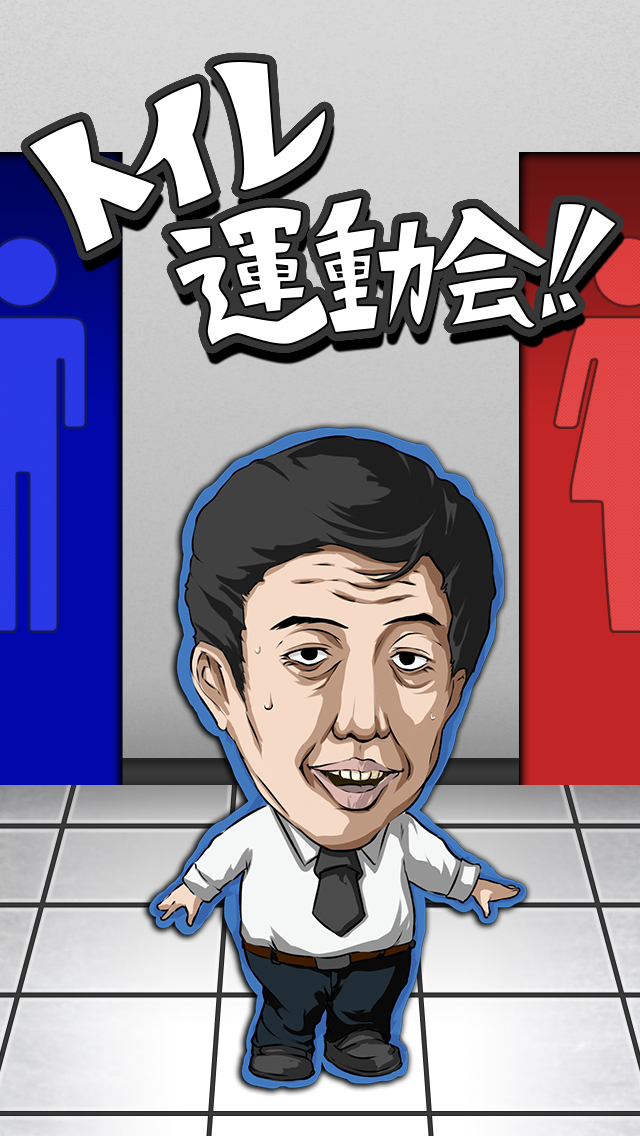
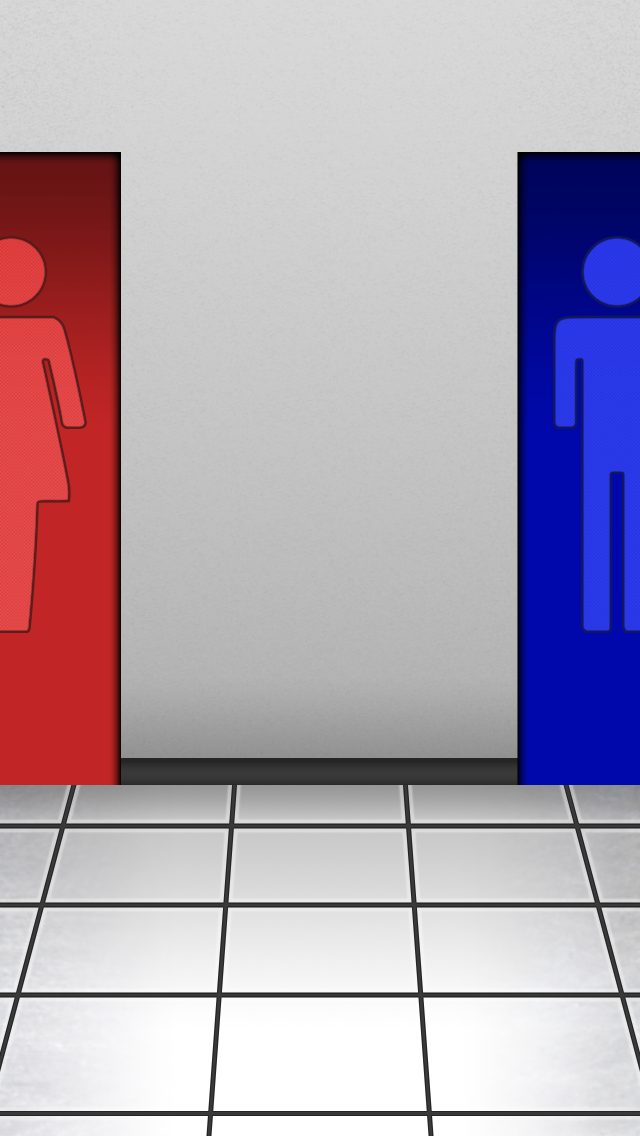
hidden statesBar. fix judgementView alfa.

diff --git a/toireKeePee/ViewController.swift b/toireKeePee/ViewController.swift
@@ -12,6 +12,7 @@ import Social
 
 class ViewController: UIViewController {
     
+    @IBOutlet weak var judgeButton: UIButton!
     @IBOutlet weak var twitter: UIButton!
     @IBOutlet weak var line: UIButton!
     @IBOutlet weak var setUpLabel: UILabel!
@@ -42,33 +43,12 @@ class ViewController: UIViewController {
     
     override func viewDidLoad() {
         super.viewDidLoad()
-
+        
         // 画面読み込み時はgameOverViewを非表示にする
         gameOverView.hidden = true
         
-        // againButtonの設定
-        // springライブラリ、attributeインスペクターで対応
-        // againButton.layer.cornerRadius = 10.0
-        // againButton.layer.borderColor = UIColor.darkGrayColor().CGColor
-        // againButton.layer.borderWidth = 3
-        
-        // menButtonの設定
-        // springライブラリ、attributeインスペクターで対応
-        // menButton.layer.masksToBounds = true
-        // menButton.layer.cornerRadius = 40.0
-        // menButton.layer.borderColor = UIColor.rgb(r: 52, g: 98, b: 175, alpha: 1.0).CGColor
-        // menButton.layer.borderWidth = 3
-        
-        // womenButtonの設定
-        // springライブラリ、attributeインスペクターで対応
-        // womenButton.layer.masksToBounds = true
-        // womenButton.layer.cornerRadius = 40.0
-        // womenButton.layer.borderColor = UIColor.rgb(r: 236, g: 151, b: 151, alpha: 1.0).CGColor
-        // womenButton.layer.borderWidth = 3
-        
         // judgeContainerViewを非表示にする
         judgeContainerView.hidden = true
-        
         
         // scoreの表示
         scoreLabel.text = "SCORE: 0"
@@ -78,13 +58,14 @@ class ViewController: UIViewController {
         // randomTextの表示
         randomPersonImageView()
         
-        // Twitter,　Lineが利用可能状態か確認
+        // TwitterとLineが利用可能状態か確認
         if UIApplication.sharedApplication().canOpenURL(NSURL(string: "line://")!) {
             line.enabled = true
         }
         if SLComposeViewController.isAvailableForServiceType(SLServiceTypeTwitter) {
             twitter.enabled = true
         }
+
         
     }
     
@@ -131,7 +112,7 @@ class ViewController: UIViewController {
             // タッチイベントを無効にする処理
             UIApplication.sharedApplication().endIgnoringInteractionEvents()
         }
-    }
+    }   
     
     //NSTimerIntervalで指定された秒数毎に呼び出されるメソッド
     func countDown(timer : NSTimer) {
@@ -171,33 +152,37 @@ class ViewController: UIViewController {
     // 不正解時に呼び出される処理
     func falseAnswer() {
         
-        
         // タイマー処理の停止
         timer.invalidate()
         
+        //judgeButtonを無効化
+        judgeButton.enabled = false
+        
         // menButtonを非表示
+        menButton.enabled = false
         menButton.hidden = true
         
         // womenButtonを非表示
+        womenButton.enabled = false
         womenButton.hidden = true
-        
-        // judgiContainerViewを表示
-        judgeContainerView.hidden = false
-        
-        // judgeImageViewにbatsu.pngを表示する
-        let judgeImage = UIImage(named: "batsu.png")
-        
-        // judgeImageViewを代入
-        judgeImageView.image = judgeImage
         
         // batsuサウンドを鳴らす
         soundManager.sePlay("batsu.mp3")
         
-        // gameOverViewを表示
-        gameOverView.hidden = false
+        // 一時停止後にgameOverViewを表示
+        pouseGameOverView()
         
         // gameOverScoreLabelにスコアを代入
         gameOverScoreLabel.text = String(score)
+
+        // judgeContainerViewを表示
+        judgeContainerView.hidden = false
+        
+        // judgeImageViewにbatsu.pngを表示する
+        let judgeImage = UIImage(named: "batsu.png")
+
+        // judgeImageViewを代入
+        judgeImageView.image = judgeImage
         
         addHighScore()
         
@@ -209,9 +194,6 @@ class ViewController: UIViewController {
     
     func timeUp() {
         
-        // gameOverViewを表示
-        gameOverView.hidden = false
-        
         // timerLabelを0表示する
         self.timerLabel.text = "Time: 0.0"
         
@@ -221,11 +203,19 @@ class ViewController: UIViewController {
         // 終了の笛の音を鳴らす
         soundManager.sePlay("hue.mp3")
         
+        //judgeButtonを無効化
+        judgeButton.enabled = false
+        
         // menButtonを非表示
+        menButton.enabled = false
         menButton.hidden = true
         
         // womenButtonを非表示
+        womenButton.enabled = false
         womenButton.hidden = true
+        
+        // 一時停止後にgameOverViewを表示
+        pouseGameOverView()
         
         // gameOverScoreLabelにスコアを代入
         gameOverScoreLabel.text = String(score)
@@ -233,7 +223,7 @@ class ViewController: UIViewController {
         addHighScore()
         
         resultHighScore()
-        
+    
     }
     
     
@@ -323,6 +313,17 @@ class ViewController: UIViewController {
         
     }
     
+    func pouseGameOverView() {
+        
+        let delay = 0.7 * Double(NSEC_PER_SEC)
+        let time  = dispatch_time(DISPATCH_TIME_NOW, Int64(delay))
+        dispatch_after(time, dispatch_get_main_queue(), {
+            self.gameOverView.hidden = false
+        })
+
+    }
+    
+    
     @IBAction func ladyButtonTapped(sender: DesignableButton) {
         
         // imageValueが、属性ラベルと一致していたら
@@ -357,7 +358,7 @@ class ViewController: UIViewController {
     }
     
     @IBAction func lineTapped(sender: AnyObject) {
-        let message = "[駆け込め！トイレ運動会]スコア：\(score)点\nぎゃるとおっさんがトイレに駆け込むシンプルゲーム！\nURL:\n"
+        let message = "[駆け込め！トイレ運動会]スコア：\(score)点\nぎゃるとおっさんがトイレに駆け込むシンプルゲーム！\nURL:XXXXX\n"
         if let encoded = message.stringByAddingPercentEncodingWithAllowedCharacters(.URLQueryAllowedCharacterSet()) {
             if let uri = NSURL(string: "line://msg/text/" + encoded) {
                 UIApplication.sharedApplication().openURL(uri)

diff --git a/toireKeePee/StartViewController.swift b/toireKeePee/StartViewController.swift
@@ -10,12 +10,13 @@ import UIKit
 import AVFoundation
 
 class StartViewController: UIViewController {
-    
+
     
     // リリース前に消す？　versionLabel関連
     @IBOutlet weak var versionLabel: UILabel!
     ///////////////////////////////////
     
+    @IBOutlet weak var logoImageView: DesignableImageView!
     @IBOutlet weak var startButton: DesignableButton!
     
     // 音楽再生の引数を定義
@@ -27,30 +28,42 @@ class StartViewController: UIViewController {
     override func viewDidLoad() {
         super.viewDidLoad()
         
-        /// リリース前に消す？　versionLabel関連 ///
-        let infoDictionary = NSBundle.mainBundle().infoDictionary! as Dictionary
-        let CFBundleShortVersionString = infoDictionary["CFBundleShortVersionString"]! as! String
-        versionLabel.text = "Ver.\(CFBundleShortVersionString)"
-        //////////////////////////////////////
-        
-        // スタートボタンの設定
-        // springライブラリ、attributeインスペクターで対応
-        // startButton.layer.masksToBounds = true
-        // startButton.layer.cornerRadius = 10.0
-        // startButton.layer.borderWidth = 3
+        // Animationのスタート
+        titleLogoAnimation()
         
         // BGMの再生
         soundManager.bgmPlay("BGM.mp3")
         
+        /// リリース前に消す？　versionLabel関連 ///
+        let infoDictionary = NSBundle.mainBundle().infoDictionary! as Dictionary
+        let CFBundleShortVersionString = infoDictionary["CFBundleShortVersionString"]! as! String
+        versionLabel.text = "Ver.\(CFBundleShortVersionString)"
     }
+    
+    func titleLogoAnimation() {
+        // logo.pngのアニメーション
+        logoImageView.delay = 2.2
+        logoImageView.duration = 1.0
+        logoImageView.animation = "fadeInDown"
+        logoImageView.animateNext { () -> () in
+            self.logoImageView.animation = "pop"
+            self.logoImageView.animate()
+        }
+    }
+    
+    // 時点での時間を表示
+    func printTime(name: String) {
+        let now = NSDate()
+        let formatter = NSDateFormatter()
+        formatter.dateFormat = "HH時mm分ss.SSS秒"
+        let string = formatter.stringFromDate(now)
+        print(string + " \(name)が呼ばれた")
+    }
+    
     
     override func didReceiveMemoryWarning() {
         super.didReceiveMemoryWarning()
-        // Dispose of any resources that can be recreated.
     }
     
-    @IBAction func startButtonTapped(sender: DesignableButton) {
-        sender.animate()
-    }
     
 }

diff --git a/toireKeePee/AppDelegate.swift b/toireKeePee/AppDelegate.swift
@@ -10,10 +10,10 @@ import UIKit
 
 @UIApplicationMain
 class AppDelegate: UIResponder, UIApplicationDelegate {
-
+    
     var window: UIWindow?
-
-
+    
+    
     func application(application: UIApplication, didFinishLaunchingWithOptions launchOptions: [NSObject: AnyObject]?) -> Bool {
         // Override point for customization after application launch.
         return true
